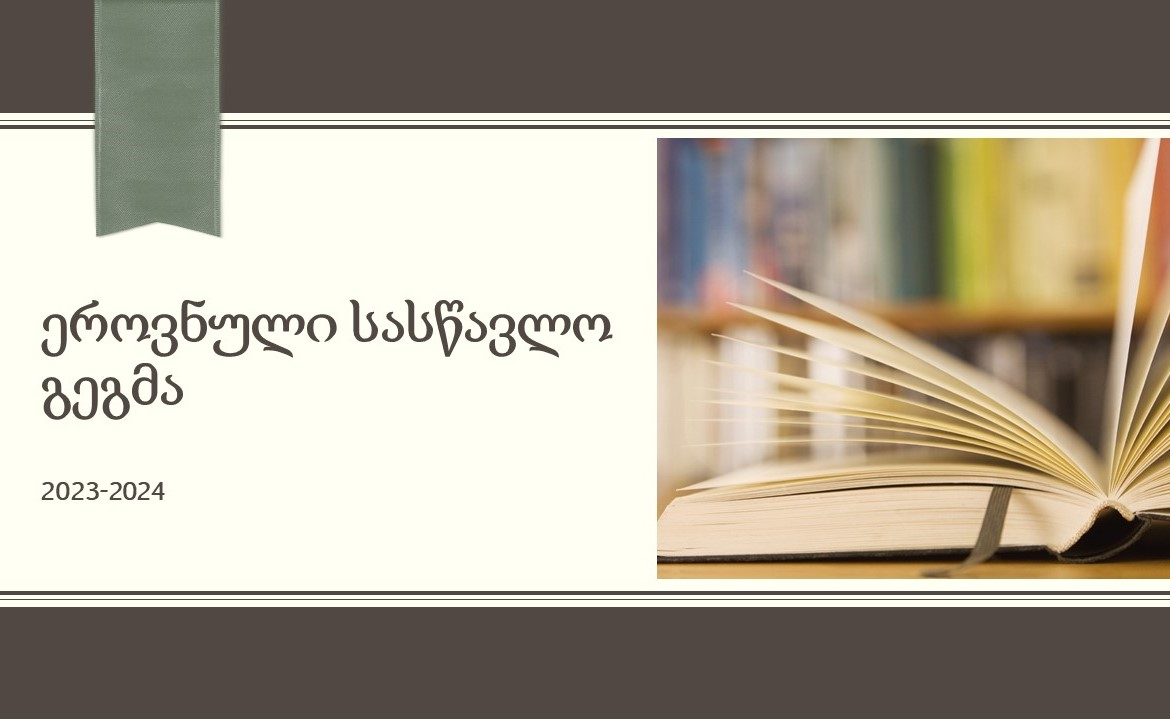
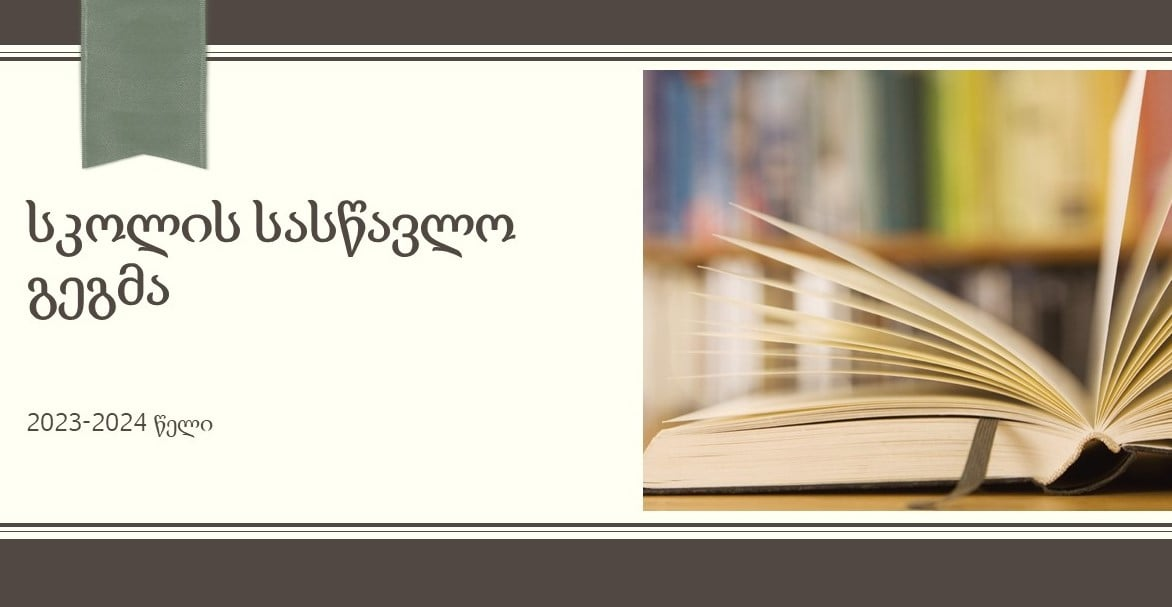
15.01.2024 news update (#2)

diff --git a/About_Us/saswavlo_gegma/erovnuli_saswavlo_gegma.html b/About_Us/saswavlo_gegma/erovnuli_saswavlo_gegma.html
@@ -4,7 +4,7 @@
 <head>
   <meta charset="utf-8">
   <meta http-equiv="X-UA-Compatible" content="IE=edge">
-  <title>ეროვნული სასწავლო გეგმა</title>
+  <title>სასკოლო სასწავლო გეგმა</title>
   <meta name="description" content="">
   <meta name="viewport" content="width=device-width, initial-scale=1">
   <link rel="stylesheet" href="/style.css">
@@ -32,11 +32,11 @@
   <div class="box">
     <div class="about">
         <div class="content1">
-            <div class="title">ეროვნული სასწავლო გეგმა</div><br><br>
+            <div class="title">სასკოლო სასწავლო გეგმა</div><br><br>
             <a href="/News_Feed/news_8.html" class="news-box">
                 <img src="/images/news/news_8/news8.jpg" alt="News 2" class="news-image">
                 <div class="news-content">
-                    <h3 class="news-header">ეროვნული სასწავლო გეგმა 2023-2024</h3>
+                    <h3 class="news-header">სასკოლო სასწავლო გეგმა 2023-2024</h3>
                     <p class="news-date">15 სექტემბერი, 2023</p>
                     <p class="news-description">სსიპ ანდრია რაზმაძის სახელობის N41 ფიზიკა-მათემატიკის საჯარო სკოლის სასკოლო სასწავლო გეგმა</p>
                 </div>
@@ -45,7 +45,7 @@
             <a href="/PDFs/სასკოლო-სასწავლო-გეგმა-2022-2023.pdf" download class="news-box">
                 <img src="/images/news/news_8/news8_1.jpg" alt="News 2" class="news-image">
                 <div class="news-content">
-                    <h3 class="news-header">ეროვნული სასწავლო გეგმა 2022-2023</h3>
+                    <h3 class="news-header">სასკოლო სასწავლო გეგმა 2022-2023</h3>
                     <p class="news-date">15 სექტემბერი, 2022</p>
                     <p class="news-description">სსიპ ანდრია რაზმაძის სახელობის N41 ფიზიკა-მათემატიკის საჯარო სკოლის სასკოლო სასწავლო გეგმა</p>
                 </div>

diff --git a/NavBar/NavBar.html b/NavBar/NavBar.html
@@ -316,7 +316,7 @@ window.addEventListener('scroll', function () {
                 <li><a href="/About_Us/saswavlo_gegma/skolis_shinagana_wesi.html">"სკოლის შინაგანაწესი"</a></li>
                 <li class="inprogress-li"><a class="inprogress-link" href="#">მოსწავლის უფლებები</a></li>
                 <li class="inprogress-li"><a class="inprogress-link" href="#">ეთიკის კოდექსი</a></li>
-                <li><a href="/About_Us/saswavlo_gegma/erovnuli_saswavlo_gegma.html">ეროვნული სასწავლო გეგმა</a></li>
+                <li><a href="/About_Us/saswavlo_gegma/erovnuli_saswavlo_gegma.html">სასკოლო სასწავლო გეგმა</a></li>
                 <li class="inprogress-li"><a class="inprogress-link" href="#">საათობრივი ბადე და კალენდარი</a></li>
                 <li class="inprogress-li"><a class="inprogress-link" href="#">კურიკულუმი</a></li>
                 <li class="inprogress-li"><a class="inprogress-link" href="#">მათემატიკის და ფიზიკის გაძლიერებული

diff --git a/News_Feed/news_8.html b/News_Feed/news_8.html
@@ -4,7 +4,7 @@
 <head>
     <meta charset="utf-8">
     <meta http-equiv="X-UA-Compatible" content="IE=edge">
-    <title>სკოლის სასკოლო სასწავლო გეგმა</title>
+    <title>სასკოლო სასწავლო გეგმა</title>
     <meta name="description" content="">
     <meta name="viewport" content="width=device-width, initial-scale=1">
     <link rel="stylesheet" href="/style.css">
@@ -35,7 +35,7 @@
         <div class="about">
             <div class="content1">
                 <div class="title">
-                    სსიპ ანდრია რაზმაძის სახელობის N41 ფიზიკა-მათემატიკის საჯარო სკოლის სასკოლო სასწავლო გეგმა
+                    სსიპ ანდრია რაზმაძის სახელობის N41 ფიზიკა-მათემატიკის საჯარო სკოლის სასწავლო გეგმა
                 </div>
                 <img class="news_picture" src="/images/news/news_8/news8.jpg ">
 
